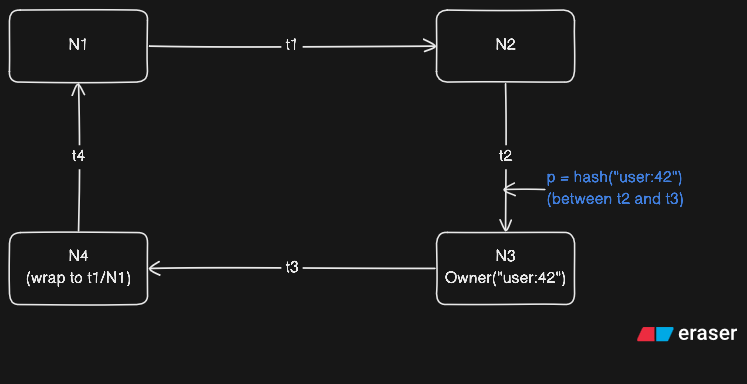
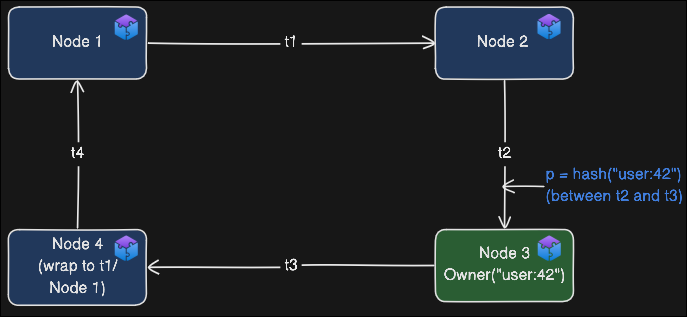
Update README.md and diagrams

Changed region(s): [[0.0, 0.0, 1.0, 0.9653], [0.5808, 0.4259, 1.0, 0.653], [0.6419, 0.653, 0.7031, 0.6814]]

diff --git a/README.md b/README.md
@@ -1,30 +1,20 @@
-# ZephyrCache — a self-healing distributed cache (MVP)
-# Started Fall 2025
-**Status:** Scaffold. First milestone compiles & runs a single-node HTTP API with pluggable ring/membership stubs.
-
-## Features (planned)
-- Consistent hashing ring with virtual nodes
-- Gossip/etcd-based membership
-- phi accrual failure detector
-- Tunable consistency (R/W quorums), replication factor
-- Hinted handoff, read-repair, anti-entropy (Merkle)
-- TTL + LRU eviction
-- Prometheus metrics, Grafana dashboards
-- Docker Compose to run a local cluster
+# ZephyrCache
 
 ## Quick start
 ```bash
 # Run with default configuration (1 cache node, 1 etcd node, default docker network)
 docker-compose -f deploy/docker-compose.yml up -d
 
-# Or scale to more nodes
-docker-compose -f deploy/docker-compose.yml up -d --scale node=10
-
 # Test the cluster
 curl localhost:8080/healthz
 curl -X PUT localhost:8080/kv/foo -d 'bar'
 curl localhost:8080/kv/foo
+
+# Scale to more cache nodes
+docker-compose -f deploy/docker-compose.yml up -d --scale node=10
+docker-compose -f deploy/docker-compose.yml up -d --scale node=50
 ```
+
 
 ## Viewing logs
 ```bash
@@ -47,44 +37,39 @@ docker-compose -f deploy/docker-compose.yml logs --tail 100 node
 docker-compose -f deploy/docker-compose.yml down
 ```
 
-## Roadmap
-
-### Done
-- Core KV store with TTL + LRU eviction
-- HTTP API and basic metrics
-- etcd-backed membership via leases (ephemeral keys, watch-based join/leave)
-- Cluster routing via consistent hash ring and request forwarding
-
-### Next
-- Gossip-based membership and failure detection
-
-### Not Started
-- Replication factor (N), quorum reads/writes (R/W), hinted handoff, read repair
-- Rebalancing hooks for node joins/leaves
-- Anti-entropy sync (Merkle trees)
-- Chaos testing, dashboards, and alerts
-
 ## etcd Lease Sequence
+Registering all nodes in etcd on startup enables critical features such as request forwarding and health monitoring.
+
 ![etcd Lease Sequence](diagrams/etcd-lease-sequence/diagram.png)
-```markdown
-Notes:
-- Attach all ephemeral membership/heartbeat keys to the same lease (e.g., leaseID 0x1234).
-- KeepAlive is a long-lived gRPC stream; send pings around TTL/3 to maintain headroom.
-- On lease expiry or revoke, etcd deletes all keys bound to that lease and emits watch events.
-- Peers watch the prefix (/zephyrcache/members/) to detect joins/leaves promptly.
-```
 
-## Consistent Hash Ring
-![Consistent Hashing Example](diagrams/consistent_hashing/diagram.png)
+- Each node registers its membership information in etcd under a single lease (e.g., `leaseID 0x1234`)
+- All ephemeral membership keys for that node are attached to this lease, ensuring atomic cleanup on failure
+- `KeepAlive` operates as a long-lived bidirectional gRPC stream implemented in the etcd client; nodes send heartbeat pings approximately every TTL/3 to maintain the lease
+- When a lease expires (no heartbeat received within TTL) or is explicitly revoked, etcd automatically deletes all bound keys and emits watch events to all peers monitoring `/zephyr/nodes`
+- Peer nodes receive these watch events and update their local membership view accordingly
 
-```text
-- t1..t4 are token positions on the ring (0..2^m-1).
-- hash(k) = point p on the ring.
-- Owner(k) = first node clockwise from p.
+### Known Limitations
+- **Single Point of Failure**: etcd cluster outages prevent new nodes from joining and may cause cascading failures
+- **Network Sensitivity**: Transient network issues can trigger false-positive failure detections
+- **Scalability**: Watch event fanout becomes expensive with large clusters (>100 nodes)
 
-Example:
-  hash("user:42") = position between t2 and t3 → Owner = N3.
-```
+### Planned solution
+- Gossip protocol for cluster membership.
+- Phi accrual failure detection.
 
 ## Request Forwarding
+Clients can send requests to any node in the cluster without needing to know which node owns the data.
+
 ![Request Forwarding](diagrams/request-forwarding/diagram.png)
+
+## Consistent Hashing
+Each node uses consistent hashing to route requests to the correct owner:
+
+**How it works:**
+- The hash ring spans positions from 0 to 2^m-1
+- Each node is assigned one or more token positions (t1, t2, t3, t4) on the ring
+- When a key arrives, hash(k) maps it to a position p on the ring
+- The owner is the first node found traveling clockwise from position p
+
+**Example:**
+![Consistent Hashing Example](diagrams/consistent_hashing/diagram.png)

diff --git a/diagrams/etcd-lease-sequence/mermaid.md b/diagrams/etcd-lease-sequence/mermaid.md
@@ -3,36 +3,41 @@
 Use mermaid editor to render/edit e.g. https://www.eraser.io
 
 ```
-sequenceDiagram
-    participant C as Client (node1)
-    participant E as etcd cluster
-    participant P as Peers / Watchers
+title Etcd Member Registration and Lease Lifecycle
+autoNumber nested
 
-    %% Phase 1: Registration
-    C->>E: LeaseGrant(TTL=10s)
-    E-->>C: LeaseGrantResp(leaseID=0x1234, TTL=10s)
-    C->>E: Put(/members/node1, value=..., lease=0x1234)
-    E-->>C: OK
+Cache Node [icon: azure-support-center-blue, color: blue]
+Etcd Cluster [icon: azure-api-center, color: purple]
+Peers [icon: azure-consortium, color: green]
 
-    %% Phase 2: Heartbeat
-    Note over C,E: Bi-di stream: LeaseKeepAlive(0x1234)
-    loop KeepAlive every ~TTL/3
-        C->>E: KeepAlive(0x1234)
-        E-->>C: KeepAliveResp(TTL≈10s)
-    end
+// Phase 1: Registration
+Cache Node > Etcd Cluster: Request short-term lease (e.g., 10s)
+activate Cache Node
+Etcd Cluster --> Cache Node: Grant lease with ID and TTL
+Cache Node > Etcd Cluster: Register self with lease ID
+Etcd Cluster --> Cache Node: Registration confirmation
 
-    %% Phase 3: Failure detection
-    Note over C: crash / network partition / exit
-    E->>E: TTL counts down
-    E->>E: EXPIRE lease 0x1234
-    E->>E: DELETE /members/node1
-    E-->>P: WATCH EVENT → DELETE (reason=EXPIRED)
+// Phase 2: Heartbeat
+loop [label: Keep lease alive, icon: refresh, color: blue] {
+  Cache Node > Etcd Cluster: Send keep-alive for lease
+  Etcd Cluster --> Cache Node: Respond with updated TTL
+}
 
-    %% Phase 4: Graceful revoke
-    opt Graceful shutdown
-        C->>E: LeaseRevoke(0x1234)
-        E-->>C: OK
-        E->>E: DELETE /members/node1
-        E-->>P: WATCH EVENT → DELETE (reason=REVOKED)
-    end
+// Phase 3: Failure detection
+break [label: Cache Node failure, icon: alert-triangle, color: red] {
+  Cache Node > Cache Node: Crash, network partition, or exit
+  Etcd Cluster > Etcd Cluster: Lease TTL counts down
+  Etcd Cluster > Etcd Cluster: Lease expires
+  Etcd Cluster > Etcd Cluster: Remove client registration
+  Etcd Cluster --> Peers: Notify peers of removal (reason: expired)
+}
+
+// Phase 4: Graceful shutdown
+opt [label: Graceful shutdown, icon: log-out, color: orange] {
+  Cache Node > Etcd Cluster: Request lease revocation
+  Etcd Cluster --> Cache Node: Confirm revocation
+  Etcd Cluster > Etcd Cluster: Remove client registration
+  Etcd Cluster --> Peers: Notify peers of removal (reason: revoked)
+}
+deactivate Cache Node
 ```

diff --git a/diagrams/request-forwarding/mermaid.md b/diagrams/request-forwarding/mermaid.md
@@ -1,11 +1,36 @@
 # Request Forwarding
 
-sequenceDiagram
-  C->N2: HTTP PUT /kv/k v
-  N2->Ring: ring.successor(hash(k))
-  Ring-->N2: owner = N3
-  N2->N3: RPC Write(k,v)
-  activate N3
-  N3-->N2: OK
-  deactivate N3
-  N2-->C: 200 OK
+```
+title Key Write Flow with Internal Consistent Hashing
+autoNumber nested
+// Actors
+Client [icon: azure-administrative-units, color: blue]
+Ingress Node [icon: azure-support-center-blue, color: orange]
+Owner [icon: azure-lock, color: green]
+// Client initiates a write request to any node in the cluster
+Client > Ingress Node: HTTP /kv/k v
+activate Ingress Node
+// Ingress Node checks if it is the owner of the key using internal consistent hashing
+Ingress Node > Ingress Node: Calculate hash of key 'k'
+Ingress Node > Ingress Node: Determine owner node for key
+// Decision: Is Ingress Node the owner?
+alt [label: Ingress Node is Owner, icon: user-check, color: blue] {
+  // Ingress Node processes the write directly
+  Ingress Node > Ingress Node: Process operation for key 'k'
+
+  Ingress Node --> Client: 200 OK
+  Ingress Node --> Client: 500 Internal Server Error
+}
+else [label: Ingress Node is NOT Owner, icon: user-x, color: orange] {
+  // Ingress Node forwards the write to the correct owner node
+  Ingress Node > Owner: Forward request for key 'k'
+  activate Owner
+
+    Owner --> Ingress Node: OK
+    Ingress Node --> Client: 200 OK
+    Owner --> Ingress Node: Error (e.g., network partition)
+    Ingress Node --> Client: 500 Internal Server Error
+  deactivate Owner
+}
+deactivate Ingress Nodeo
+```
